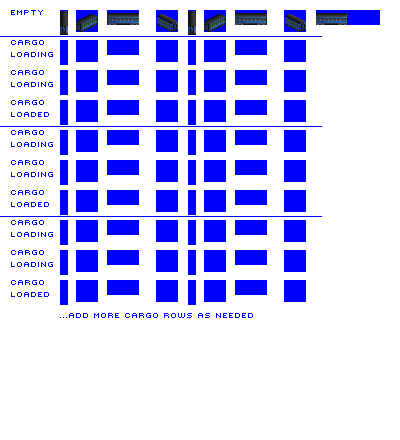
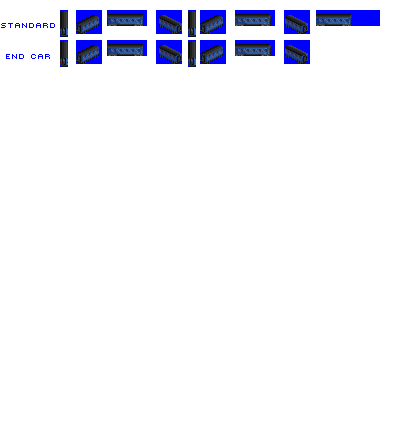
Change: 9/8 long sprites for gen 2 brit passenger car (closes #6530)

Changed region(s): [[0.0, 0.0, 0.9, 0.7386], [0.03, 0.2955, 0.12, 0.6795], [0.24, 0.7091, 0.3, 0.7386]]

diff --git a/src/vehicles/passenger_cars.py b/src/vehicles/passenger_cars.py
@@ -55,7 +55,7 @@ consist.add_unit(Wagon(type_config = type_config,
                         consist = consist,
                         capacity_pax = 55,
                         weight = 100,
-                        vehicle_length = 8,
+                        vehicle_length = 9,
                         loading_speed = 20))              
 
 consist.add_model_variant(intro_date=0,
